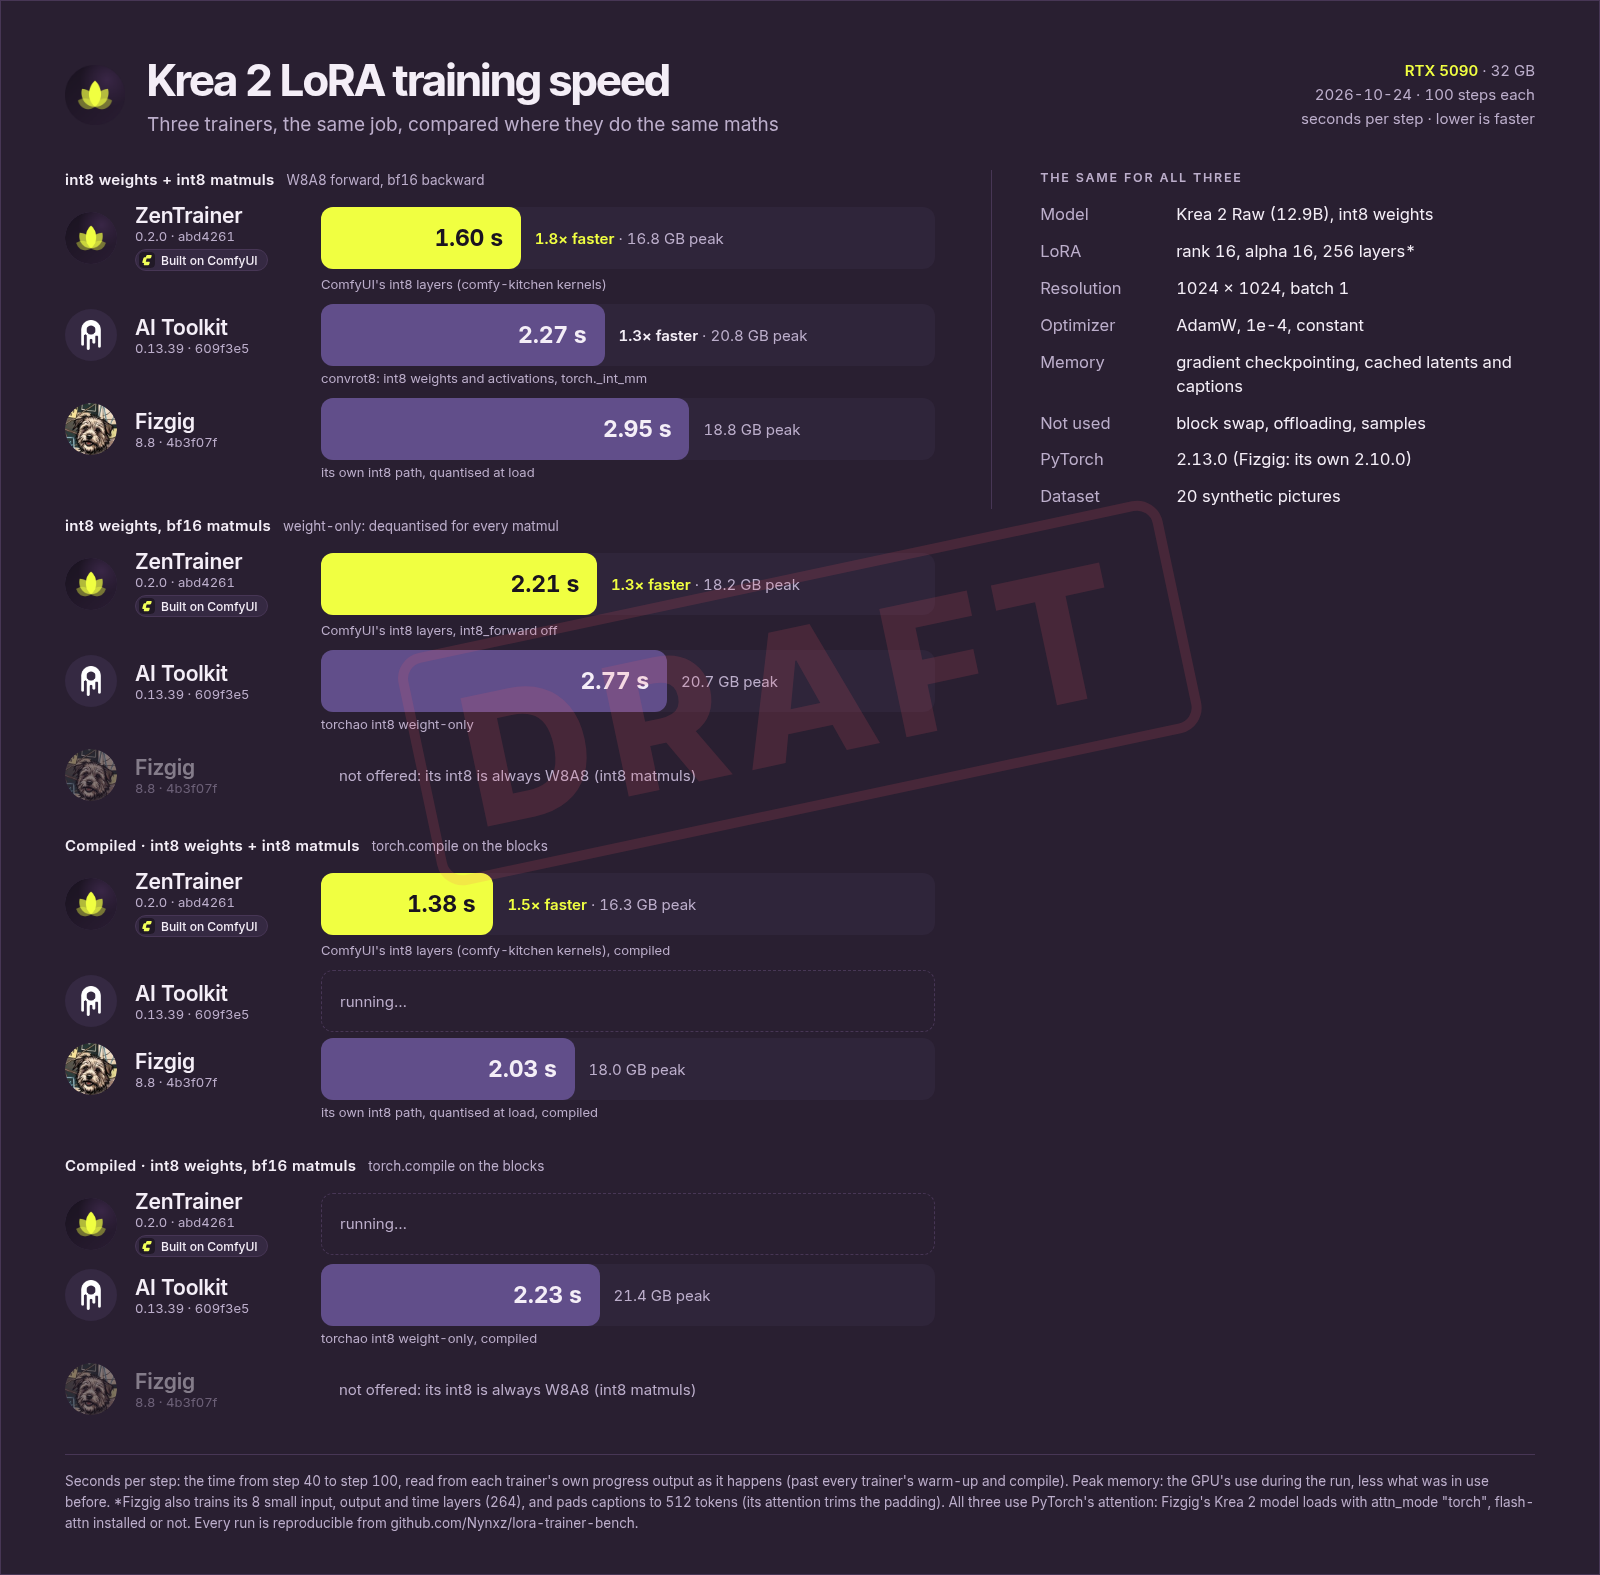
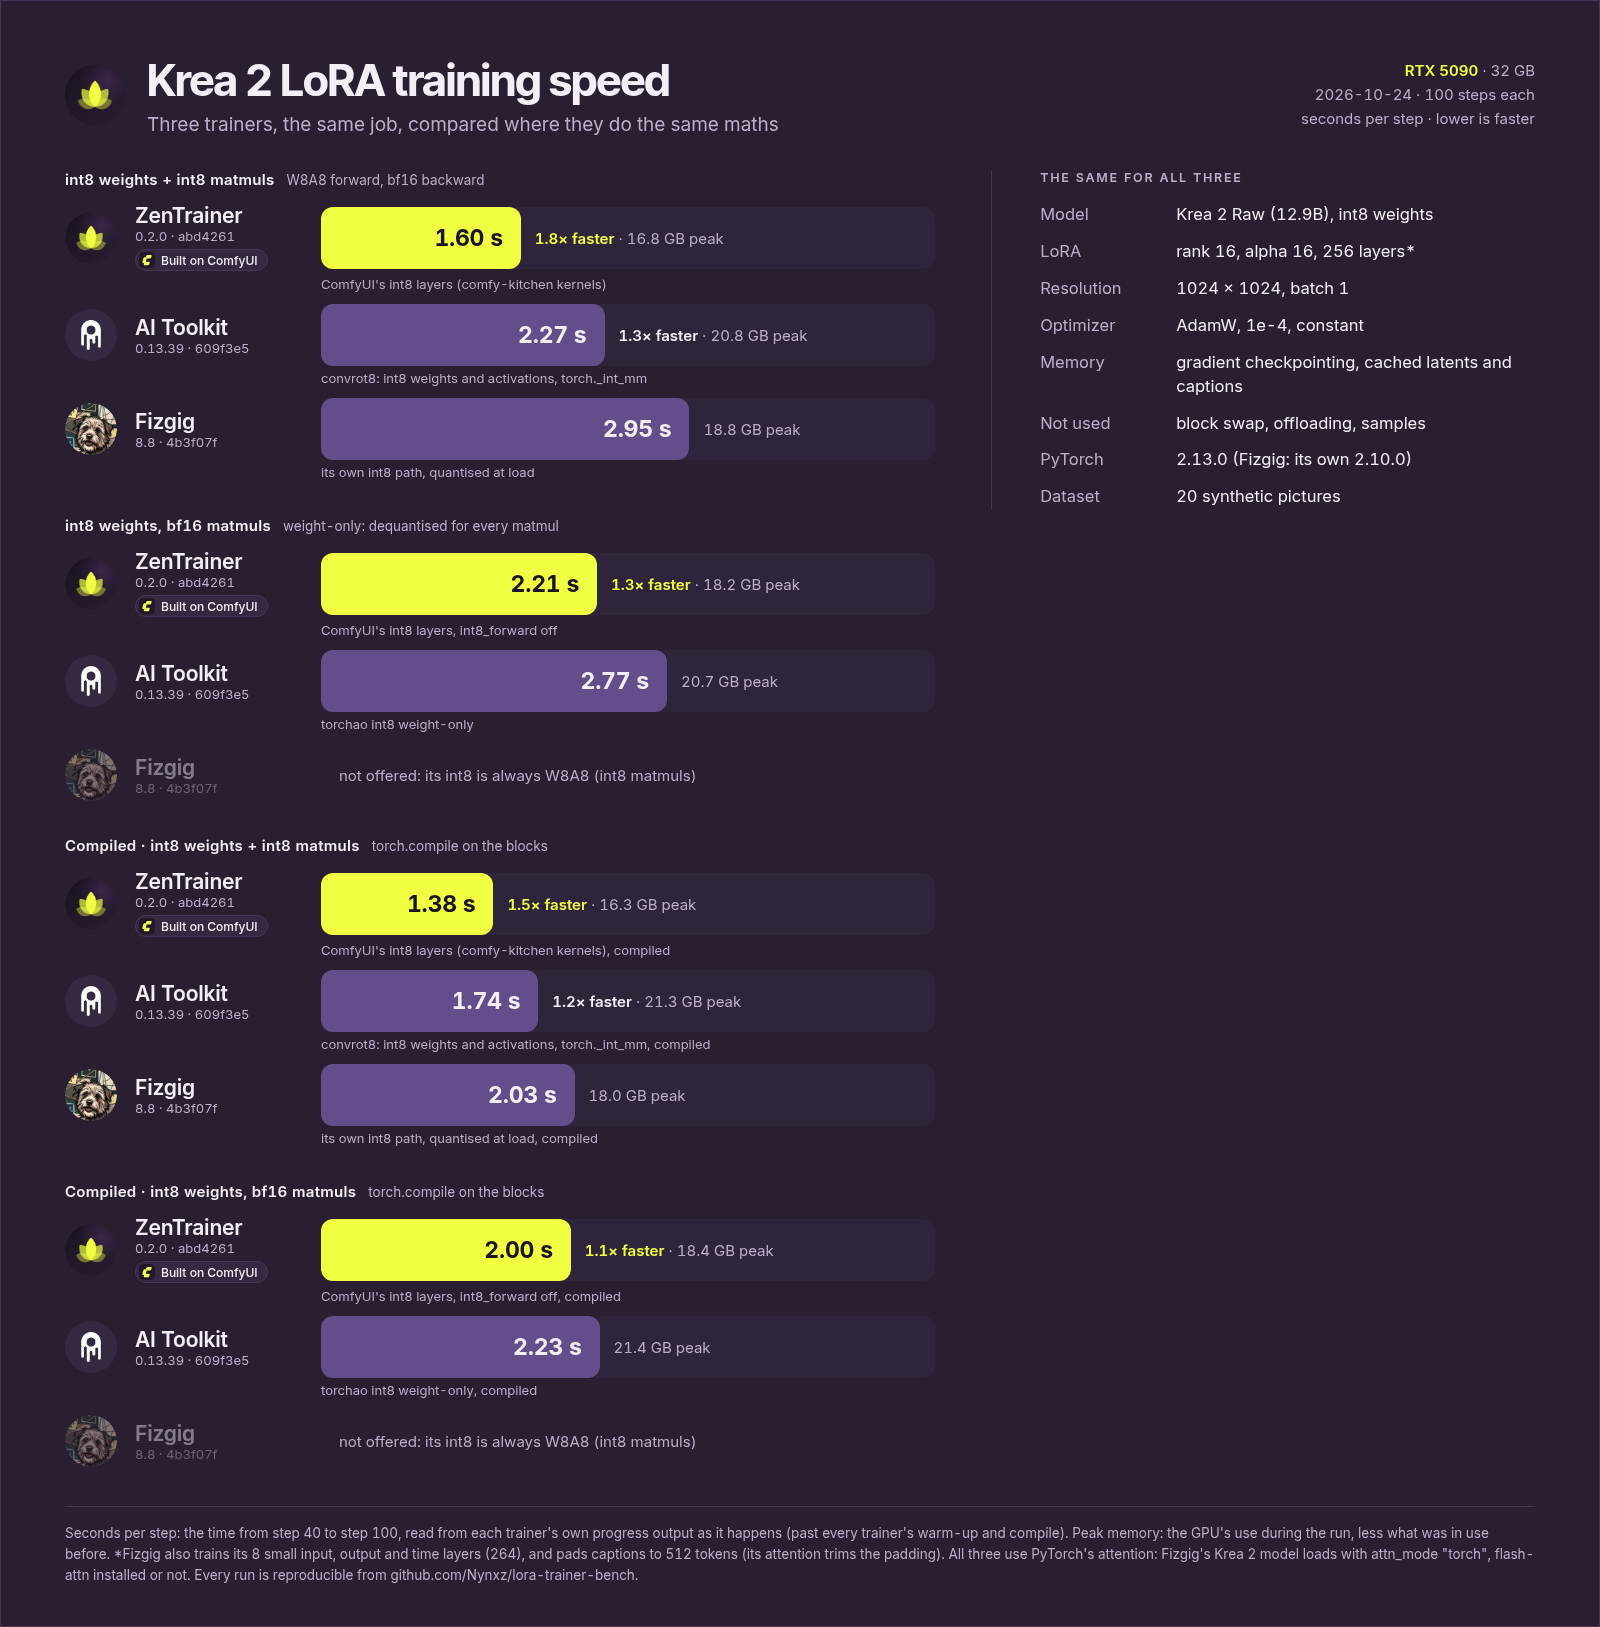
All results in: final charts at 1024 and 512, and ZenTrainer's int8 backward
- 1024: AI Toolkit's compiled W8A8 (1.74 s) and ZenTrainer's compiled weight-only on fixed code
  (2.00 s) complete the comparison; both charts lose their DRAFT mark.
- ZenTrainer's own int8 backward (memory.w8a8_backward): 1.35 s against 1.60, reported on its own
  since it changes the maths.
- The runner waits until no connections hold ZenTrainer's port before a run: the pinned `zt` counts
  a stopped server's lingering ones as the port being in use.

diff --git a/bench.py b/bench.py
@@ -151,8 +151,11 @@ def stop_zentrainer() -> None:
             else:
                 os.kill(int(pid), signal.SIGKILL)
                 time.sleep(2)
-    for _ in range(30):
-        if f":{ZT_PORT} " not in subprocess.run(["ss", "-ltn"], capture_output=True, text=True).stdout:
+    # until nothing holds the port: no listener, and no closed connections lingering (TIME_WAIT,
+    # about a minute), which `zt` (pinned commit) counts as the port being in use
+    for _ in range(120):
+        held = subprocess.run(["ss", "-tanH", f"( sport = :{ZT_PORT} )"], capture_output=True, text=True).stdout
+        if not held.strip():
             break
         time.sleep(1)
 

diff --git a/chart/make_data.py b/chart/make_data.py
@@ -15,7 +15,7 @@ HERE = Path(__file__).parent
 RESULTS = HERE.parent / "results" / "results.jsonl"
 PENDING = set(sys.argv[1:])
 DRAFT = True
-FINAL = {"512"}  # charts whose every run is in and checked: no DRAFT mark
+FINAL = {"512", "1024"}  # charts whose every run is in and checked: no DRAFT mark
 
 TRAINERS = {
     "zt": {"name": "ZenTrainer", "version": "0.2.0 · abd4261", "logo": "zt_badge.png", "ours": True,

diff --git a/README.md b/README.md
@@ -24,8 +24,8 @@ and its latest successful row in [`results/results.jsonl`](results/results.jsonl
 |---|---|---|---|
 | int8 weights + int8 matmuls | **1.60** · 16.8 GB | 2.27 · 20.8 GB | 2.95 · 18.8 GB |
 | int8 weights, bf16 matmuls | **2.21** · 18.2 GB | 2.77 · 20.7 GB | not offered |
-| compiled, int8 matmuls | **1.38** · 16.3 GB | *running* | 2.03 · 18.0 GB |
-| compiled, bf16 matmuls | *running* | 2.23 · 21.4 GB | not offered |
+| compiled, int8 matmuls | **1.38** · 16.3 GB | 1.74 · 21.3 GB | 2.03 · 18.0 GB |
+| compiled, bf16 matmuls | **2.00** · 18.4 GB | 2.23 · 21.4 GB | not offered |
 
 ### 512 px
 
@@ -52,9 +52,17 @@ implementations, not their choice of precision:
   dequantisation into the matmul's epilogue (its `int8_linear`), where the others run separate steps.
 - **Compiling closes much of the gap.** torch.compile fuses those small steps for the others: at 512
   it takes Fizgig from 0.60 to 0.38, level with ZenTrainer, while ZenTrainer itself gains about 5%.
-  At 1024 ZenTrainer stays ahead compiled (1.38 against 2.03).
+  At 1024 ZenTrainer stays ahead compiled: 1.38 against 1.74 (AI Toolkit) and 2.03 (Fizgig).
 - **ZenTrainer is also ahead with bf16 matmuls** (2.21 against 2.77), where no int8 kernels run, so
   part of the difference is outside the matmuls. We haven't profiled where yet; that's next.
+
+### ZenTrainer's own int8 backward
+
+Every row above uses each trainer's standard backward pass, in bf16. ZenTrainer can also run the
+input gradient of its int8 layers on int8 tensor cores (`memory.w8a8_backward`, its own kernel):
+the gradient is quantised to int8 per row, rounded stochastically. That changes the maths, so it
+isn't in the comparison; on its own it takes the 1024 int8 run from 1.60 to **1.35 s/step**
+(17.5 GB), uncompiled. Variant `zt-w8a8-int8bwd`.
 
 ### Differences that remain, and what they mean
 
